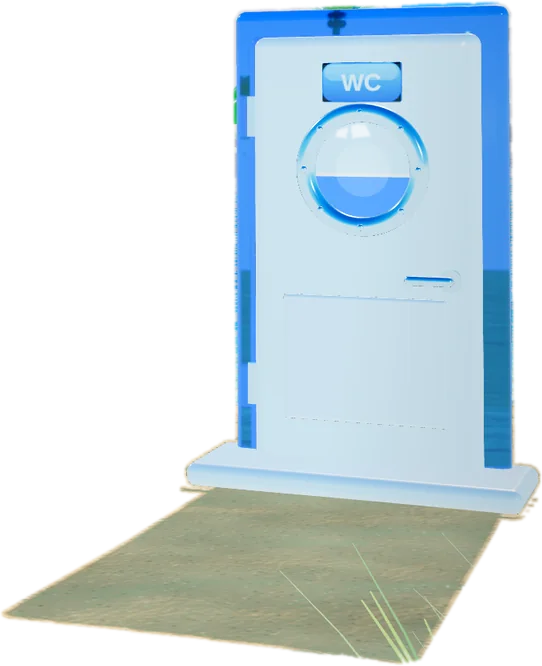
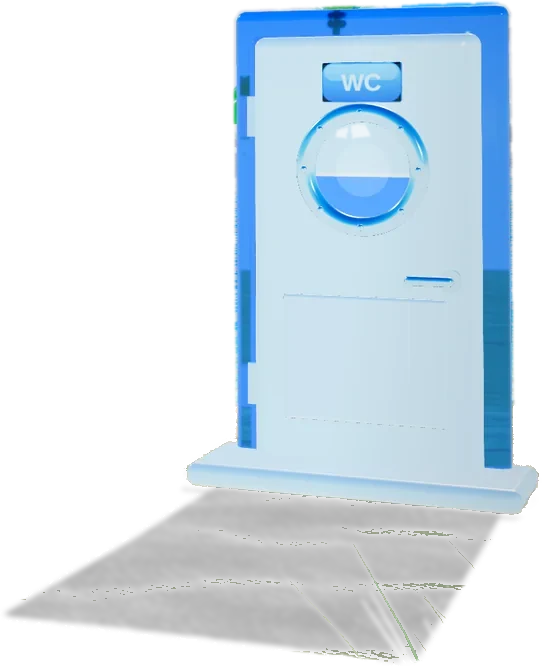
Focus Aero: generated cosmic beach plate, ringed planet, sea turtle rising toward the stars as Stretch; rendered objects re-cut with true shadows
Claude-Session: https://claude.ai/code/session_01HNXf8HvpZKxZ2L1VgheEA9

Changed region(s): [[0.0, 0.6306, 1.0, 1.0], [0.3542, 0.6607, 0.4133, 0.6907]]

diff --git a/App.js b/App.js
@@ -2002,18 +2002,18 @@ const FOCUS_LOOKS = [["aero", "Frutiger Aero"], ["classic", "Classic desk"]];
 // Generated from tools/aero (scene.html → render3.js): the world, and each need at 8 fill levels, cropped.
 const AERO = {
   size: [1080, 1920], levels: [0,  15,  30,  45,  60,  75,  90,  100],
-  bg: require("./assets/aero3/bg.jpg"), gull: require("./assets/aero3/sprite-gull.png"), dolphin: require("./assets/aero3/dolphin.webp"), dolphinGlow: require("./assets/aero3/dolphin_glow.webp"), dolphinLit: require("./assets/aero3/dolphin_lit.webp"),
-  layers: {"eat": {x: 369, y: 1227, w: 417, h: 269}, "stretch": {x: 347, y: 884, w: 453, h: 390}, "bathroom": {x: 521, y: 884, w: 542, h: 666}, "water": {x: 0, y: 958, w: 374, h: 743}, "walk": {x: 330, y: 611, w: 380, h: 338}},
-  frames: { // walk is the dolphin, not frames
+  bg: require("./assets/aero3/bg.jpg"), gull: require("./assets/aero3/sprite-gull.png"), dolphin: require("./assets/aero3/dolphin.webp"), dolphinGlow: require("./assets/aero3/dolphin_glow.webp"), dolphinLit: require("./assets/aero3/dolphin_lit.webp"), turtle: require("./assets/aero3/turtle.webp"), turtleGlow: require("./assets/aero3/turtle_glow.webp"),
+  layers: {"eat": {x: 369, y: 1227, w: 417, h: 269}, "bathroom": {x: 521, y: 884, w: 542, h: 666}, "water": {x: 0, y: 958, w: 374, h: 743}, "walk": {x: 330, y: 520, w: 380, h: 338}, "stretch": {x: 640, y: 790, w: 260, h: 144}},
+  stretchRise: 620, // the turtle climbs this far (art px) from the sea toward the stars as stretch comes due
+  frames: { // walk is the dolphin and stretch the turtle, not frames
     eat: { 0: require("./assets/aero3/eat-0.webp"), 15: require("./assets/aero3/eat-15.webp"), 30: require("./assets/aero3/eat-30.webp"), 45: require("./assets/aero3/eat-45.webp"), 60: require("./assets/aero3/eat-60.webp"), 75: require("./assets/aero3/eat-75.webp"), 90: require("./assets/aero3/eat-90.webp"), 100: require("./assets/aero3/eat-100.webp") },
-    stretch: { 0: require("./assets/aero3/stretch-0.webp"), 15: require("./assets/aero3/stretch-15.webp"), 30: require("./assets/aero3/stretch-30.webp"), 45: require("./assets/aero3/stretch-45.webp"), 60: require("./assets/aero3/stretch-60.webp"), 75: require("./assets/aero3/stretch-75.webp"), 90: require("./assets/aero3/stretch-90.webp"), 100: require("./assets/aero3/stretch-100.webp") },
     bathroom: { 0: require("./assets/aero3/bathroom-0.webp"), 15: require("./assets/aero3/bathroom-15.webp"), 30: require("./assets/aero3/bathroom-30.webp"), 45: require("./assets/aero3/bathroom-45.webp"), 60: require("./assets/aero3/bathroom-60.webp"), 75: require("./assets/aero3/bathroom-75.webp"), 90: require("./assets/aero3/bathroom-90.webp"), 100: require("./assets/aero3/bathroom-100.webp") },
     water: { 0: require("./assets/aero3/water-0.webp"), 15: require("./assets/aero3/water-15.webp"), 30: require("./assets/aero3/water-30.webp"), 45: require("./assets/aero3/water-45.webp"), 60: require("./assets/aero3/water-60.webp"), 75: require("./assets/aero3/water-75.webp"), 90: require("./assets/aero3/water-90.webp"), 100: require("./assets/aero3/water-100.webp") },
   },
 };
 const AERO_INK = "#0b3d6e";
 const AERO_ORDER = ["walk", "eat", "stretch", "bathroom", "water"]; // far to near
-const AERO_BOB = { walk: 6 };
+const AERO_BOB = { walk: 6, stretch: 4 };
 function AeroFocus({ needs, left, onPlay, onEnd, look, setLook }) {
   const ins = useSafeAreaInsets();
   const win = useWindowDimensions();
@@ -2052,7 +2052,7 @@ function AeroThing({ n, i, s, ox, oy, left, onPlay }) {
   const pct = cleared ? 0 : Math.min(100, n.fill * 100);
   const lvl = AERO.levels.filter((l) => l <= pct + 0.01).pop() || 0;
   const full = !cleared && n.fill >= 1;
-  const isDolphin = n.key === "walk";
+  const isDolphin = n.key === "walk", isTurtle = n.key === "stretch";
   const bob = useRef(new Animated.Value(0)).current, lift = useRef(new Animated.Value(0)).current, pulse = useRef(new Animated.Value(0)).current;
   useEffect(() => {
     if (!AERO_BOB[n.key]) return;
@@ -2078,7 +2078,7 @@ function AeroThing({ n, i, s, ox, oy, left, onPlay }) {
       } else Animated.spring(lift, { toValue: 0, useNativeDriver: true }).start();
     },
   }), []);
-  const x = ox + L.x * s, y = oy + L.y * s, w = L.w * s, h = L.h * s;
+  const x = ox + L.x * s, y = oy + (L.y - (isTurtle ? AERO.stretchRise * pct / 100 : 0)) * s, w = L.w * s, h = L.h * s;
   const labelTop = n.key === "water" ? -26 : h + 4;
   return (
     <Animated.View {...pr.panHandlers} accessibilityRole="adjustable" accessibilityLabel={n.card.label + (full ? ", full" : ", " + left + " until full")}
@@ -2093,6 +2093,11 @@ function AeroThing({ n, i, s, ox, oy, left, onPlay }) {
         <Image source={AERO.dolphinGlow} style={{ position: "absolute", left: -w * 0.55, top: -h * 0.55, width: w * 2.1, height: h * 2.1, opacity: Math.max(0, pct / 100 - 0.5) * 2 * (full ? 1 : 0.8) }} />
         <Image source={AERO.dolphin} style={{ width: w, height: h }} />
         <Image source={AERO.dolphinLit} style={{ position: "absolute", left: 0, top: 0, width: w, height: h, opacity: Math.pow(pct / 100, 1.5) * 0.9 }} />
+      </> : isTurtle ? <>
+        {/* Stretch: a turtle rising from the sea toward the stars; it lights up with starlight when it gets there */}
+        <Animated.Image source={AERO.turtleGlow} style={{ position: "absolute", left: -w * 0.3, top: -h * 0.3, width: w * 1.6, height: h * 1.6,
+          opacity: full ? pulse.interpolate({ inputRange: [0, 1], outputRange: [0.8, 1] }) : Math.max(0, pct / 100 - 0.8) * 3 }} />
+        <Image source={AERO.turtle} style={{ width: w, height: h }} />
       </> : <Image source={AERO.frames[n.key][lvl]} style={{ width: w, height: h }} />}
       <View style={[st.aeroLabel, { position: "absolute", top: labelTop, alignSelf: "center" }, full && { backgroundColor: "#ffffff", borderColor: "#ffb020" }]}>
         <Text style={st.aeroLabelTxt} numberOfLines={1}>{full ? "! " : ""}{n.name} · {left}</Text>

diff --git a/tools/aero/gen/build_scene.py b/tools/aero/gen/build_scene.py
@@ -1,0 +1,35 @@
+# Assemble the generated Focus scene: plate + ringed planet + water stream, and re-cut the rendered objects' layers
+# so their shadows become true shadows (black with alpha) over the new sand instead of patches of the old one.
+import numpy as np, json, glob, os, subprocess
+from PIL import Image
+from scipy import ndimage as nd
+OUT = "pack"; os.makedirs(OUT, exist_ok=True)
+plate = Image.open("plate_src.webp").convert("RGB").resize((1080, 1920), Image.LANCZOS)
+HZ = 855
+bg = np.asarray(plate).astype(np.float32) / 255
+# ringed planet: opaque body and rings, soft glow edges
+pl = np.asarray(Image.open("planet_src.webp").convert("RGB")).astype(np.float32) / 255
+v = pl.max(-1); a = np.clip((v - 0.03) / 0.22, 0, 1); a = nd.gaussian_filter(a, 0.7)
+rgb = np.clip(pl / np.maximum(a[..., None], 0.05), 0, 1)
+ys, xs = np.where(a > 0.02); pl_rgba = np.dstack([rgb, a])[ys.min():ys.max() + 1, xs.min():xs.max() + 1]
+pim = Image.fromarray((pl_rgba * 255).astype(np.uint8), "RGBA"); PW = 500; pim = pim.resize((PW, round(PW * pim.height / pim.width)), Image.LANCZOS)
+base = Image.fromarray((bg * 255).astype(np.uint8)).convert("RGBA"); base.alpha_composite(pim, (290 - PW // 2, 360 - pim.height // 2))
+base.convert("RGB").save(f"{OUT}/bg.jpg", quality=93)
+subprocess.run(["python3", "/home/claude/aero-build/photo/water_overlay.py", f"{OUT}/bg.jpg", "/home/claude/aero-build/photo/stream.png", f"{OUT}/bg.jpg", "600", "-95", "950", str(HZ)], check=True)
+# re-cut layers
+old = np.asarray(Image.open("oldbg.png").convert("RGB")).astype(np.float32) / 255
+man = json.load(open("/home/claude/aero-build/pack9/manifest.json"))
+for n in ["eat", "bathroom", "water"]:
+    L = man["layers"][n]; ob = old[L["y"]:L["y"] + L["h"], L["x"]:L["x"] + L["w"]]
+    for f in glob.glob(f"/home/claude/aero-build/pack9/{n}-*.webp"):
+        im = np.asarray(Image.open(f).convert("RGBA")).astype(np.float32) / 255; F, A = im[..., :3], im[..., 3]
+        k = F / np.maximum(ob, 0.03); km = k.mean(-1); ks = k.std(-1)
+        sand = ((ob[..., 0] - ob[..., 2]) > 0.12) & (np.arange(L["y"], L["y"] + L["h"])[:, None] > 1150)  # only where the old world was sand
+        shadow = (ks < 0.08) & (km < 0.985) & (A > 0) & sand
+        sa = nd.gaussian_filter(np.where(shadow, np.clip(1 - km, 0, 1) * A, 0), 2.5)
+        shadow = nd.binary_dilation(shadow, iterations=2) & sand & ~((A > 0) & ~shadow & (ks >= 0.08))
+        out = np.dstack([np.where(shadow[..., None], 0.0, F), np.where(shadow, sa * 1.05, A)])
+        # where it nearly matches the old sand, it's just sand: drop it
+        out[..., 3] = np.where((~shadow) & sand & (np.abs(F - ob).max(-1) < 0.04), 0, out[..., 3])
+        Image.fromarray((np.clip(out, 0, 1) * 255 + .5).astype(np.uint8), "RGBA").save(f"{OUT}/" + os.path.basename(f), quality=86, method=6)
+json.dump({"layers": {n: man["layers"][n] for n in ["eat", "bathroom", "water"]}, "levels": man["levels"]}, open(f"{OUT}/manifest.json", "w"))
